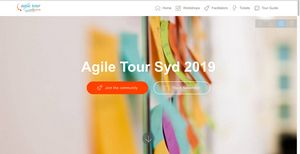
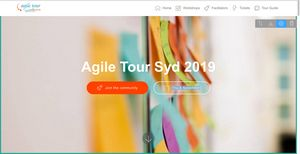
Changing date on front page from Thu to Fri

Changed region(s): [[0.0, 0.1039, 1.0, 1.0], [0.57, 0.5455, 0.69, 0.5974]]

diff --git a/tourguide.html b/tourguide.html
@@ -16,8 +16,8 @@
   <link rel="stylesheet" href="assets/bootstrap/css/bootstrap-grid.min.css">
   <link rel="stylesheet" href="assets/bootstrap/css/bootstrap-reboot.min.css">
   <link rel="stylesheet" href="assets/socicon/css/styles.css">
-  <link rel="stylesheet" href="assets/animatecss/animate.min.css">
   <link rel="stylesheet" href="assets/dropdown/css/style.css">
+  <link rel="stylesheet" href="assets/animatecss/animate.min.css">
   <link rel="stylesheet" href="assets/theme/css/style.css">
   <link rel="stylesheet" href="assets/mobirise/css/mbr-additional.css" type="text/css">
   
@@ -40,44 +40,7 @@
 <!-- /Google Analytics -->
 
 
-  <section class="menu cid-qPi085xork" once="menu" id="menu1-17">
-
-    
-
-    <nav class="navbar navbar-expand beta-menu navbar-dropdown align-items-center navbar-fixed-top navbar-toggleable-sm">
-        <button class="navbar-toggler navbar-toggler-right" type="button" data-toggle="collapse" data-target="#navbarSupportedContent" aria-controls="navbarSupportedContent" aria-expanded="false" aria-label="Toggle navigation">
-            <div class="hamburger">
-                <span></span>
-                <span></span>
-                <span></span>
-                <span></span>
-            </div>
-        </button>
-        <div class="menu-logo">
-            <div class="navbar-brand">
-                <span class="navbar-logo">
-                    <a href="http://www.agiletoursyd.org/">
-                         <img src="assets/images/agiletoursyd-logo-276x146.png" alt="Agile Tour Sydney" title="Agile Tour Sydney" style="height: 3.8rem;">
-                    </a>
-                </span>
-                <span class="navbar-caption-wrap"><a class="navbar-caption text-white display-4" href="https://mobirise.com">Agile Your Syd</a></span>
-            </div>
-        </div>
-        <div class="collapse navbar-collapse" id="navbarSupportedContent">
-            <ul class="navbar-nav nav-dropdown nav-right" data-app-modern-menu="true"><li class="nav-item">
-                    <a class="nav-link link text-info display-4" href="index.html#header2-1">
-                        <span class="mbri-home mbr-iconfont mbr-iconfont-btn"></span>Home</a>
-                </li><li class="nav-item"><a class="nav-link link text-info display-4" href="workshops.html#header1-l"><span class="mbri-features mbr-iconfont mbr-iconfont-btn"></span>
-                        Workshops</a></li>
-                <li class="nav-item"><a class="nav-link link text-info display-4" href="facilitators.html"><span class="mbri-rocket mbr-iconfont mbr-iconfont-btn"></span>Facilitators</a></li><li class="nav-item"><a class="nav-link link text-info display-4" href="tickets.html#header12-1b"><span class="mbri-speed mbr-iconfont mbr-iconfont-btn"></span>Tickets</a></li><li class="nav-item"><a class="nav-link link text-info display-4" href="tourguide.html#features16-18"><span class="mbri-github mbr-iconfont mbr-iconfont-btn"></span>
-                        
-                        Tour Guide</a></li></ul>
-            
-        </div>
-    </nav>
-</section>
-
-<section class="engine"><a href="https://mobirise.info/f">simple website maker</a></section><section class="features16 cid-qTpp1rNmM7 mbr-parallax-background" id="features16-18">
+  <section class="features16 cid-qTpp1rNmM7 mbr-parallax-background" id="features16-18">
     
     
     <div class="mbr-overlay" style="opacity: 0.4; background-color: rgb(35, 35, 35);">
@@ -157,7 +120,7 @@
     </div>
 </section>
 
-<section class="features16 cid-qYD7RAy6HK mbr-parallax-background" id="features16-1t">
+<section class="engine"><a href="https://mobirise.info/r">free bootstrap template</a></section><section class="features16 cid-qYD7RAy6HK mbr-parallax-background" id="features16-1t">
     
     
     <div class="mbr-overlay" style="opacity: 0.5; background-color: rgb(35, 35, 35);">
@@ -346,16 +309,53 @@
     </div>
 </section>
 
+<section class="menu cid-qPi085xork" once="menu" id="menu1-17">
+
+    
+
+    <nav class="navbar navbar-expand beta-menu navbar-dropdown align-items-center navbar-fixed-top navbar-toggleable-sm">
+        <button class="navbar-toggler navbar-toggler-right" type="button" data-toggle="collapse" data-target="#navbarSupportedContent" aria-controls="navbarSupportedContent" aria-expanded="false" aria-label="Toggle navigation">
+            <div class="hamburger">
+                <span></span>
+                <span></span>
+                <span></span>
+                <span></span>
+            </div>
+        </button>
+        <div class="menu-logo">
+            <div class="navbar-brand">
+                <span class="navbar-logo">
+                    <a href="http://www.agiletoursyd.org/">
+                         <img src="assets/images/agiletoursyd-logo-276x146.png" alt="Agile Tour Sydney" title="Agile Tour Sydney" style="height: 3.8rem;">
+                    </a>
+                </span>
+                <span class="navbar-caption-wrap"><a class="navbar-caption text-white display-4" href="https://mobirise.com">Agile Your Syd</a></span>
+            </div>
+        </div>
+        <div class="collapse navbar-collapse" id="navbarSupportedContent">
+            <ul class="navbar-nav nav-dropdown nav-right" data-app-modern-menu="true"><li class="nav-item">
+                    <a class="nav-link link text-info display-4" href="index.html#header2-1">
+                        <span class="mbri-home mbr-iconfont mbr-iconfont-btn"></span>Home</a>
+                </li><li class="nav-item"><a class="nav-link link text-info display-4" href="workshops.html#header1-l"><span class="mbri-features mbr-iconfont mbr-iconfont-btn"></span>
+                        Workshops</a></li>
+                <li class="nav-item"><a class="nav-link link text-info display-4" href="facilitators.html"><span class="mbri-rocket mbr-iconfont mbr-iconfont-btn"></span>Facilitators</a></li><li class="nav-item"><a class="nav-link link text-info display-4" href="tickets.html#header12-1b"><span class="mbri-speed mbr-iconfont mbr-iconfont-btn"></span>Tickets</a></li><li class="nav-item"><a class="nav-link link text-info display-4" href="tourguide.html#features16-18"><span class="mbri-github mbr-iconfont mbr-iconfont-btn"></span>
+                        
+                        Tour Guide</a></li></ul>
+            
+        </div>
+    </nav>
+</section>
+
 
   <script src="assets/web/assets/jquery/jquery.min.js"></script>
   <script src="assets/popper/popper.min.js"></script>
   <script src="assets/tether/tether.min.js"></script>
   <script src="assets/bootstrap/js/bootstrap.min.js"></script>
   <script src="assets/smoothscroll/smooth-scroll.js"></script>
+  <script src="assets/parallax/jarallax.min.js"></script>
   <script src="assets/viewportchecker/jquery.viewportchecker.js"></script>
   <script src="assets/dropdown/js/script.min.js"></script>
   <script src="assets/touchswipe/jquery.touch-swipe.min.js"></script>
-  <script src="assets/parallax/jarallax.min.js"></script>
   <script src="assets/theme/js/script.js"></script>
   
   

diff --git a/facilitators.html b/facilitators.html
@@ -15,8 +15,8 @@
   <link rel="stylesheet" href="assets/bootstrap/css/bootstrap.min.css">
   <link rel="stylesheet" href="assets/bootstrap/css/bootstrap-grid.min.css">
   <link rel="stylesheet" href="assets/bootstrap/css/bootstrap-reboot.min.css">
-  <link rel="stylesheet" href="assets/socicon/css/styles.css">
   <link rel="stylesheet" href="assets/dropdown/css/style.css">
+  <link rel="stylesheet" href="assets/socicon/css/styles.css">
   <link rel="stylesheet" href="assets/animatecss/animate.min.css">
   <link rel="stylesheet" href="assets/theme/css/style.css">
   <link rel="stylesheet" href="assets/mobirise/css/mbr-additional.css" type="text/css">
@@ -40,44 +40,7 @@
 <!-- /Google Analytics -->
 
 
-  <section class="menu cid-qRCktWQRGR" once="menu" id="menu1-29">
-
-    
-
-    <nav class="navbar navbar-expand beta-menu navbar-dropdown align-items-center navbar-fixed-top navbar-toggleable-sm">
-        <button class="navbar-toggler navbar-toggler-right" type="button" data-toggle="collapse" data-target="#navbarSupportedContent" aria-controls="navbarSupportedContent" aria-expanded="false" aria-label="Toggle navigation">
-            <div class="hamburger">
-                <span></span>
-                <span></span>
-                <span></span>
-                <span></span>
-            </div>
-        </button>
-        <div class="menu-logo">
-            <div class="navbar-brand">
-                <span class="navbar-logo">
-                    <a href="http://www.agiletoursyd.org/">
-                         <img src="assets/images/agiletoursyd-logo-276x146.png" alt="Agile Tour Sydney" title="Agile Tour Sydney" style="height: 3.8rem;">
-                    </a>
-                </span>
-                <span class="navbar-caption-wrap"><a class="navbar-caption text-white display-4" href="https://mobirise.com">Agile Your Syd</a></span>
-            </div>
-        </div>
-        <div class="collapse navbar-collapse" id="navbarSupportedContent">
-            <ul class="navbar-nav nav-dropdown nav-right" data-app-modern-menu="true"><li class="nav-item">
-                    <a class="nav-link link text-info display-4" href="index.html#header2-1">
-                        <span class="mbri-home mbr-iconfont mbr-iconfont-btn"></span>Home</a>
-                </li><li class="nav-item"><a class="nav-link link text-info display-4" href="workshops.html#header1-l"><span class="mbri-features mbr-iconfont mbr-iconfont-btn"></span>
-                        Workshops</a></li>
-                <li class="nav-item"><a class="nav-link link text-info display-4" href="facilitators.html"><span class="mbri-rocket mbr-iconfont mbr-iconfont-btn"></span>Facilitators</a></li><li class="nav-item"><a class="nav-link link text-info display-4" href="tickets.html#header12-1b"><span class="mbri-speed mbr-iconfont mbr-iconfont-btn"></span>Tickets</a></li><li class="nav-item"><a class="nav-link link text-info display-4" href="tourguide.html#features16-18"><span class="mbri-github mbr-iconfont mbr-iconfont-btn"></span>
-                        
-                        Tour Guide</a></li></ul>
-            
-        </div>
-    </nav>
-</section>
-
-<section class="engine"><a href="https://mobirise.info/e">how to make your own website</a></section><section class="features16 cid-r81RqakPn6" id="features16-2c">
+  <section class="features16 cid-r81RqakPn6" id="features16-2c">
     
     
     
@@ -224,7 +187,7 @@
     </div>
 </section>
 
-<section class="features16 cid-r86lzEGTjP" id="features16-2f">
+<section class="engine"><a href="https://mobirise.info/h">how to create your own web page</a></section><section class="features16 cid-r86lzEGTjP" id="features16-2f">
     
     
     
@@ -566,6 +529,43 @@
                 </div>
             </div></div>    
     </div>
+</section>
+
+<section class="menu cid-qRCktWQRGR" once="menu" id="menu1-29">
+
+    
+
+    <nav class="navbar navbar-expand beta-menu navbar-dropdown align-items-center navbar-fixed-top navbar-toggleable-sm">
+        <button class="navbar-toggler navbar-toggler-right" type="button" data-toggle="collapse" data-target="#navbarSupportedContent" aria-controls="navbarSupportedContent" aria-expanded="false" aria-label="Toggle navigation">
+            <div class="hamburger">
+                <span></span>
+                <span></span>
+                <span></span>
+                <span></span>
+            </div>
+        </button>
+        <div class="menu-logo">
+            <div class="navbar-brand">
+                <span class="navbar-logo">
+                    <a href="http://www.agiletoursyd.org/">
+                         <img src="assets/images/agiletoursyd-logo-276x146.png" alt="Agile Tour Sydney" title="Agile Tour Sydney" style="height: 3.8rem;">
+                    </a>
+                </span>
+                <span class="navbar-caption-wrap"><a class="navbar-caption text-white display-4" href="https://mobirise.com">Agile Your Syd</a></span>
+            </div>
+        </div>
+        <div class="collapse navbar-collapse" id="navbarSupportedContent">
+            <ul class="navbar-nav nav-dropdown nav-right" data-app-modern-menu="true"><li class="nav-item">
+                    <a class="nav-link link text-info display-4" href="index.html#header2-1">
+                        <span class="mbri-home mbr-iconfont mbr-iconfont-btn"></span>Home</a>
+                </li><li class="nav-item"><a class="nav-link link text-info display-4" href="workshops.html#header1-l"><span class="mbri-features mbr-iconfont mbr-iconfont-btn"></span>
+                        Workshops</a></li>
+                <li class="nav-item"><a class="nav-link link text-info display-4" href="facilitators.html"><span class="mbri-rocket mbr-iconfont mbr-iconfont-btn"></span>Facilitators</a></li><li class="nav-item"><a class="nav-link link text-info display-4" href="tickets.html#header12-1b"><span class="mbri-speed mbr-iconfont mbr-iconfont-btn"></span>Tickets</a></li><li class="nav-item"><a class="nav-link link text-info display-4" href="tourguide.html#features16-18"><span class="mbri-github mbr-iconfont mbr-iconfont-btn"></span>
+                        
+                        Tour Guide</a></li></ul>
+            
+        </div>
+    </nav>
 </section>
 
 <section once="" class="cid-qYCKF6SIPn mbr-reveal" id="footer7-2a">

diff --git a/tickets.html b/tickets.html
@@ -40,44 +40,7 @@
 <!-- /Google Analytics -->
 
 
-  <section class="menu cid-qPi085xork" once="menu" id="menu1-1a">
-
-    
-
-    <nav class="navbar navbar-expand beta-menu navbar-dropdown align-items-center navbar-fixed-top navbar-toggleable-sm">
-        <button class="navbar-toggler navbar-toggler-right" type="button" data-toggle="collapse" data-target="#navbarSupportedContent" aria-controls="navbarSupportedContent" aria-expanded="false" aria-label="Toggle navigation">
-            <div class="hamburger">
-                <span></span>
-                <span></span>
-                <span></span>
-                <span></span>
-            </div>
-        </button>
-        <div class="menu-logo">
-            <div class="navbar-brand">
-                <span class="navbar-logo">
-                    <a href="http://www.agiletoursyd.org/">
-                         <img src="assets/images/agiletoursyd-logo-276x146.png" alt="Agile Tour Sydney" title="Agile Tour Sydney" style="height: 3.8rem;">
-                    </a>
-                </span>
-                <span class="navbar-caption-wrap"><a class="navbar-caption text-white display-4" href="https://mobirise.com">Agile Your Syd</a></span>
-            </div>
-        </div>
-        <div class="collapse navbar-collapse" id="navbarSupportedContent">
-            <ul class="navbar-nav nav-dropdown nav-right" data-app-modern-menu="true"><li class="nav-item">
-                    <a class="nav-link link text-info display-4" href="index.html#header2-1">
-                        <span class="mbri-home mbr-iconfont mbr-iconfont-btn"></span>Home</a>
-                </li><li class="nav-item"><a class="nav-link link text-info display-4" href="workshops.html#header1-l"><span class="mbri-features mbr-iconfont mbr-iconfont-btn"></span>
-                        Workshops</a></li>
-                <li class="nav-item"><a class="nav-link link text-info display-4" href="facilitators.html"><span class="mbri-rocket mbr-iconfont mbr-iconfont-btn"></span>Facilitators</a></li><li class="nav-item"><a class="nav-link link text-info display-4" href="tickets.html#header12-1b"><span class="mbri-speed mbr-iconfont mbr-iconfont-btn"></span>Tickets</a></li><li class="nav-item"><a class="nav-link link text-info display-4" href="tourguide.html#features16-18"><span class="mbri-github mbr-iconfont mbr-iconfont-btn"></span>
-                        
-                        Tour Guide</a></li></ul>
-            
-        </div>
-    </nav>
-</section>
-
-<section class="engine"><a href="https://mobirise.info/t">free amp templates</a></section><section class="header12 cid-qTr6h6M4GG mbr-fullscreen mbr-parallax-background" id="header12-1b">
+  <section class="header12 cid-qTr6h6M4GG mbr-fullscreen mbr-parallax-background" id="header12-1b">
 
     
 
@@ -141,7 +104,7 @@
     </div>
 </section>
 
-<section class="countdown1 cid-r7PuxX1F67" id="countdown1-1x">
+<section class="engine"><a href="https://mobirise.info/l">free web templates</a></section><section class="countdown1 cid-r7PuxX1F67" id="countdown1-1x">
     
     
     
@@ -310,6 +273,43 @@
             </div>
         </div>
     </div>
+</section>
+
+<section class="menu cid-qPi085xork" once="menu" id="menu1-1a">
+
+    
+
+    <nav class="navbar navbar-expand beta-menu navbar-dropdown align-items-center navbar-fixed-top navbar-toggleable-sm">
+        <button class="navbar-toggler navbar-toggler-right" type="button" data-toggle="collapse" data-target="#navbarSupportedContent" aria-controls="navbarSupportedContent" aria-expanded="false" aria-label="Toggle navigation">
+            <div class="hamburger">
+                <span></span>
+                <span></span>
+                <span></span>
+                <span></span>
+            </div>
+        </button>
+        <div class="menu-logo">
+            <div class="navbar-brand">
+                <span class="navbar-logo">
+                    <a href="http://www.agiletoursyd.org/">
+                         <img src="assets/images/agiletoursyd-logo-276x146.png" alt="Agile Tour Sydney" title="Agile Tour Sydney" style="height: 3.8rem;">
+                    </a>
+                </span>
+                <span class="navbar-caption-wrap"><a class="navbar-caption text-white display-4" href="https://mobirise.com">Agile Your Syd</a></span>
+            </div>
+        </div>
+        <div class="collapse navbar-collapse" id="navbarSupportedContent">
+            <ul class="navbar-nav nav-dropdown nav-right" data-app-modern-menu="true"><li class="nav-item">
+                    <a class="nav-link link text-info display-4" href="index.html#header2-1">
+                        <span class="mbri-home mbr-iconfont mbr-iconfont-btn"></span>Home</a>
+                </li><li class="nav-item"><a class="nav-link link text-info display-4" href="workshops.html#header1-l"><span class="mbri-features mbr-iconfont mbr-iconfont-btn"></span>
+                        Workshops</a></li>
+                <li class="nav-item"><a class="nav-link link text-info display-4" href="facilitators.html"><span class="mbri-rocket mbr-iconfont mbr-iconfont-btn"></span>Facilitators</a></li><li class="nav-item"><a class="nav-link link text-info display-4" href="tickets.html#header12-1b"><span class="mbri-speed mbr-iconfont mbr-iconfont-btn"></span>Tickets</a></li><li class="nav-item"><a class="nav-link link text-info display-4" href="tourguide.html#features16-18"><span class="mbri-github mbr-iconfont mbr-iconfont-btn"></span>
+                        
+                        Tour Guide</a></li></ul>
+            
+        </div>
+    </nav>
 </section>
 
 

diff --git a/index.html b/index.html
@@ -79,7 +79,7 @@ A full day experience of discovery, failure, success and learning.">
     </nav>
 </section>
 
-<section class="engine"><a href="https://mobirise.info/s">bootstrap theme</a></section><section class="cid-qPf7ICkmto mbr-fullscreen mbr-parallax-background" id="header2-1">
+<section class="engine"><a href="https://mobirise.info/x">css templates</a></section><section class="cid-qPf7ICkmto mbr-fullscreen mbr-parallax-background" id="header2-1">
 
     
 
@@ -93,7 +93,7 @@ A full day experience of discovery, failure, success and learning.">
                 
                 
                 <div class="mbr-section-btn"><a class="btn btn-md btn-secondary display-4" href="workshops.html#header1-l"><span class="mbri-rocket mbr-iconfont mbr-iconfont-btn"></span>Join the community</a>
-                    <a class="btn btn-md btn-white-outline display-4" href="tickets.html#pricing-tables2-1q"><span class="mbri-calendar mbr-iconfont mbr-iconfont-btn"></span>Thu 8 November</a></div>
+                    <a class="btn btn-md btn-white-outline display-4" href="tickets.html#pricing-tables2-1q"><span class="mbri-calendar mbr-iconfont mbr-iconfont-btn"></span>Fri 8 November</a></div>
             </div>
         </div>
     </div>
@@ -349,7 +349,7 @@ A full day experience of discovery, failure, success and learning.">
 
      
 
-    <div class="google-map"><iframe frameborder="0" style="border:0" src="https://www.google.com/maps/embed/v1/place?key=AIzaSyAEIpgj38KyLFELm2bK9Y7krBkz1K-cMq8&amp;q=place_id:ChIJw0IrWCauEmsRNn7LVg1Nff4" allowfullscreen=""></iframe></div>
+    <div class="google-map"><iframe frameborder="0" style="border:0" src="https://www.google.com/maps/embed/v1/place?key=AIzaSyCy9r70T3NYf3PhvVflTo0_zdif2_IoIYs&amp;q=place_id:ChIJw0IrWCauEmsRNn7LVg1Nff4" allowfullscreen=""></iframe></div>
 </section>
 
 <section once="" class="cid-qPhZvpn6Kr mbr-reveal" id="footer7-v">

diff --git a/workshops.html b/workshops.html
@@ -77,7 +77,7 @@
     </nav>
 </section>
 
-<section class="engine"><a href="https://mobirise.info/s">bootstrap theme</a></section><section class="header1 cid-qPfhxnJ9nu mbr-parallax-background" id="header1-l">
+<section class="engine"><a href="https://mobirise.info/e">how to make your own site for free</a></section><section class="header1 cid-qPfhxnJ9nu mbr-parallax-background" id="header1-l">
 
     
 
